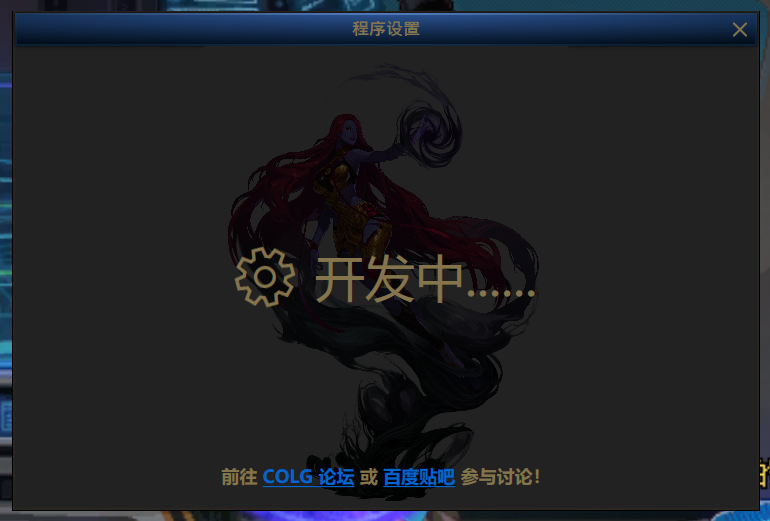
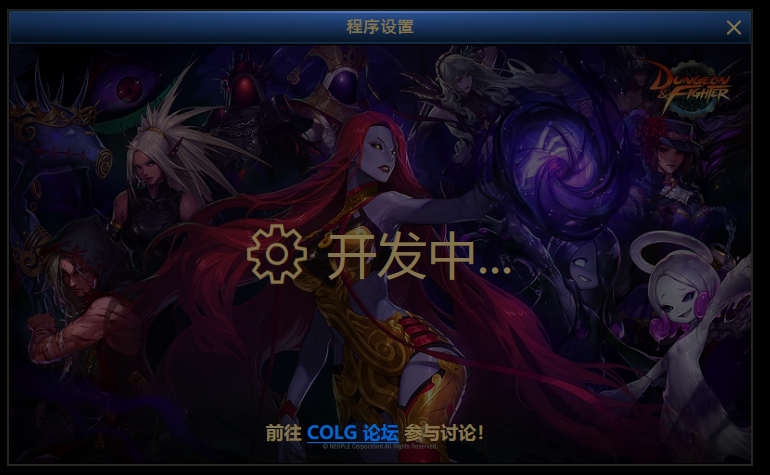
更换设置界面的背景图

diff --git a/SRC/DSSW.Client/Views/SettingsWindow.xaml b/SRC/DSSW.Client/Views/SettingsWindow.xaml
@@ -9,12 +9,10 @@
         ResizeMode="NoResize"
         WindowStartupLocation="CenterScreen"
         Background="Transparent"
-        Height="500">
-    <Grid x:Name="RootLayout"
-          Background="#99000000">
+        Height="458">
+    <Grid x:Name="RootLayout">
         <Border Margin="1, 0, 1, 1"
                 BorderBrush="#FF292622"
-                Background="#FF7F7F7F"
                 BorderThickness="2">
             <Grid>
                 <Grid.RowDefinitions>
@@ -83,7 +81,7 @@
                         <ImageBrush ImageSource="../Assets/Images/settingsbg.jpg"
                                     Stretch="Uniform" />
                     </Grid.Background>
-                    <Rectangle Fill="#BB000000" />
+                    <Rectangle Fill="#99000000" />
                     <StackPanel Orientation="Horizontal"
                                 HorizontalAlignment="Center"
                                 VerticalAlignment="Center">
